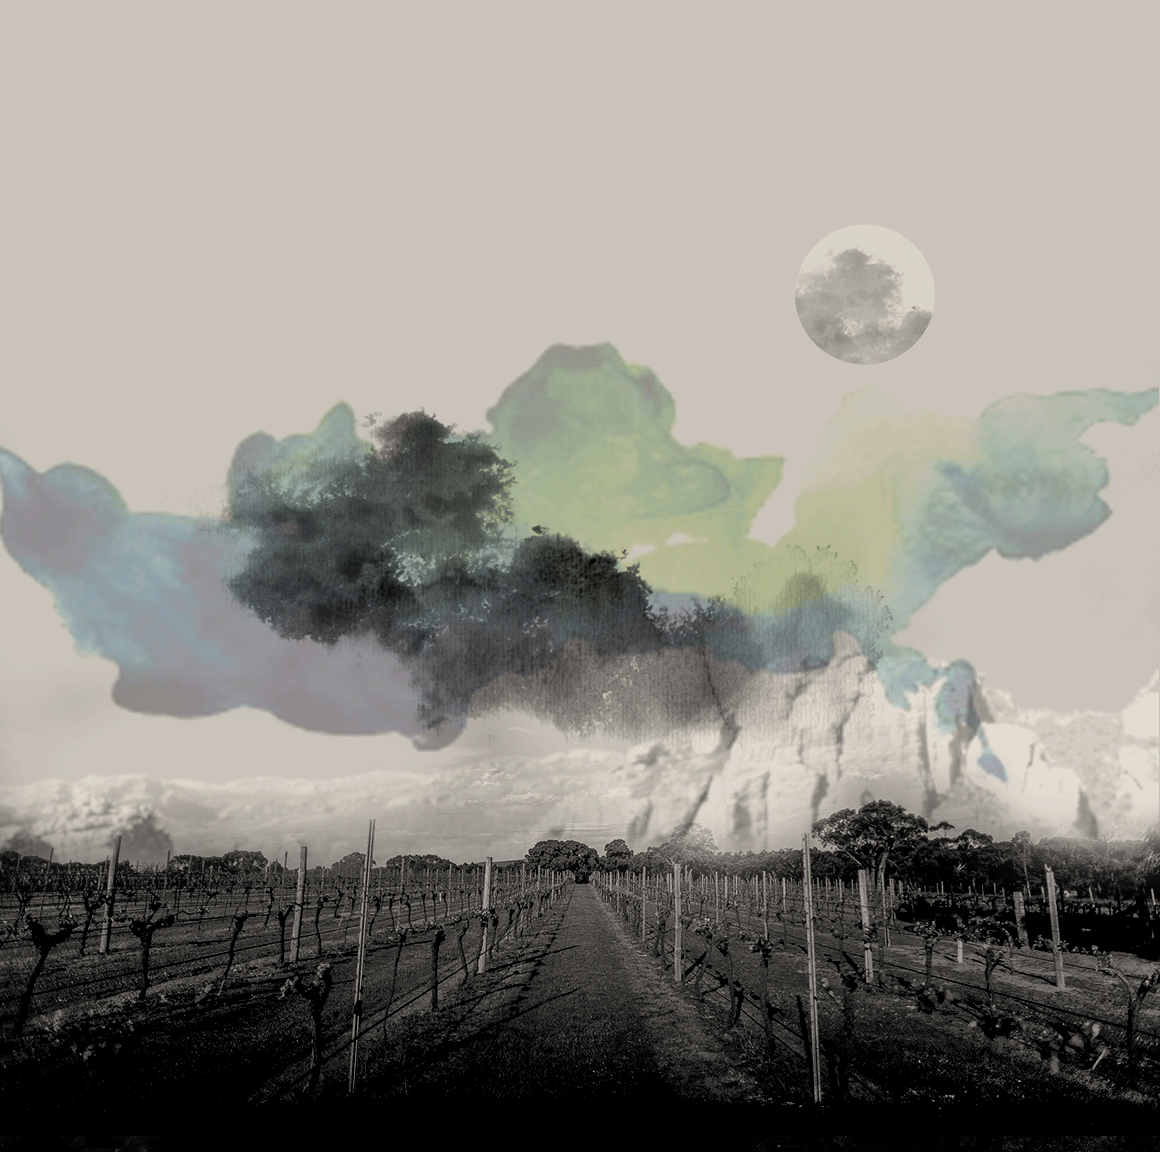
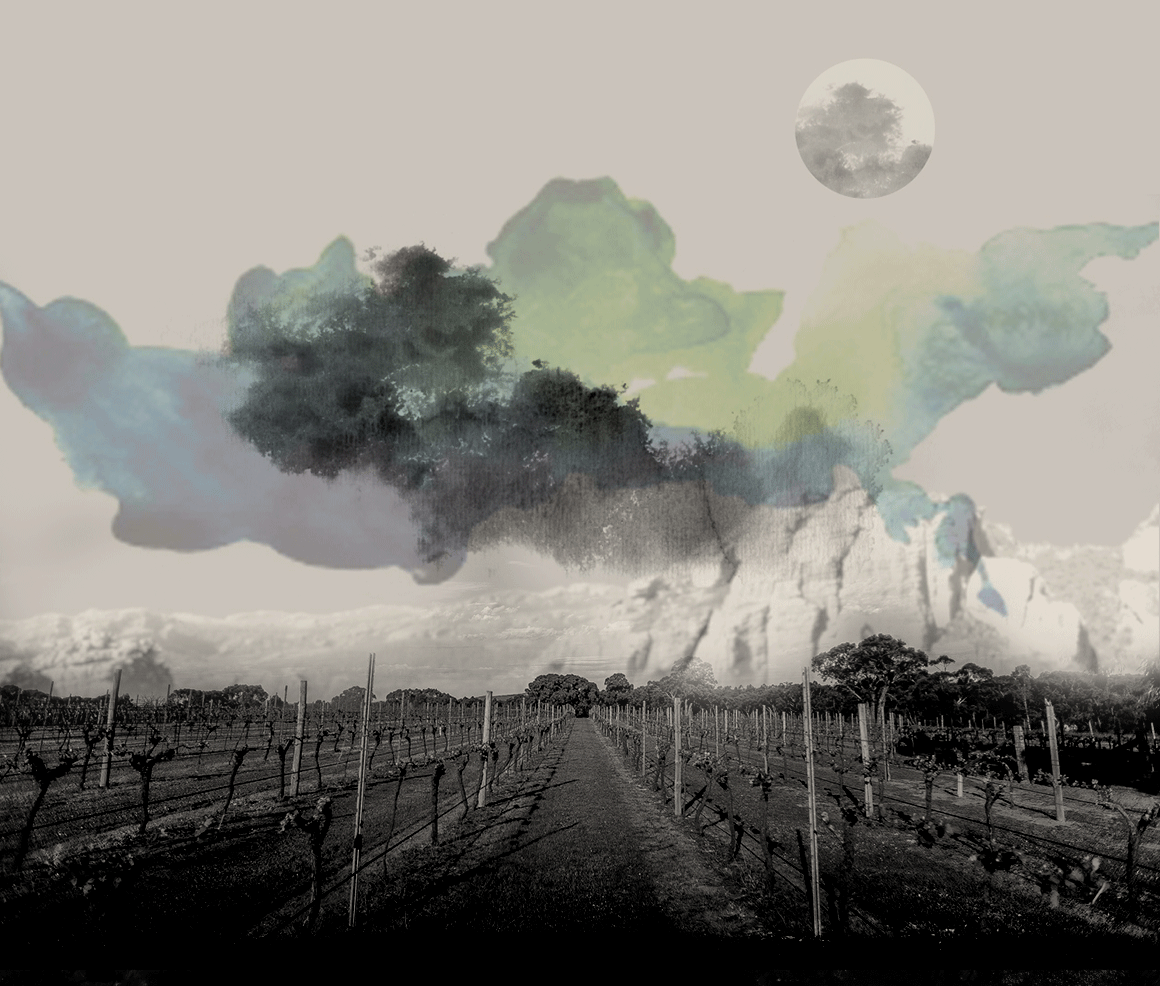
New Loop + Adding some BG

diff --git a/wp-content/themes/fallengiants/style.css b/wp-content/themes/fallengiants/style.css
@@ -13,18 +13,37 @@
 
 /* =Theme customization starts here
 -------------------------------------------------------------- */
-html {
+html,body {
 	background-color: #cac3bb;
 }
-.homepage {
+.bghomepage {
+	width: 100%;
 	position: static;
 	z-index: 4;
-	height: 1000px;
+	height: 82vw;
 	background-image: url(bg/home.png);
-	background-size: auto;
+	background-size: 100%;
+	background-repeat: no-repeat;
 	background-position: center top;
-	
+	border-bottom: solid black 1px;	
 }
+
+.bgourstory {
+background-image: url(bg/ourstory.png);
+height: 632px;
+margin-bottom: -350px;
+background-position: center top;
+}
+@media only screen and (min-width:1200px) {.bgourstory {background-size: 100%;}} /* min-width 641px, medium screens */
+
+.bgourstoryend {
+background-image: url(bg/ourstoryend.png);
+height: 632px;
+margin-top: -250px;
+background-position: center top;
+}
+@media only screen and (min-width:1200px) {.bgourstoryend {background-size: 100%;}} /* min-width 641px, medium screens */
+
 .entry-title {
 padding-top: 100px;
 }

diff --git a/wp-content/themes/fallengiants/one-page-layout.php b/wp-content/themes/fallengiants/one-page-layout.php
@@ -6,19 +6,20 @@ Template Name: One page layout
  */
 
 get_header(); ?>
-
+<div class="bghomepage">	
+</div>
+<div class="bgourstory">	
+</div>
 <div class="row">
 	<div id="primary" class="site-content small-12 medium-12 columns">
-		<div class="homepage">	
 		
-		
-		</div>
+		<!-- OUR-STORY -->
 		<div id="content" role="main">
 		
 		<?php 
 		global $post;
                 $args = array(
-                    'post_type' => 'page',
+                    'pagename' => 'our-story',
                     'order' => 'ASC'
                 );
                 $the_query = new WP_Query( $args );         
@@ -29,12 +30,42 @@ get_header(); ?>
             
             get_template_part($post->post_name); ?>
 
-            <?php endwhile; endif; ?>
+            <?php endwhile; endif; wp_reset_postdata(); ?>
             
 		</div>
 	</div>
 
 
 </div>
+<div class="bgourstoryend">	
+</div>
+<div class="row">
+	<div id="primary" class="site-content small-12 medium-12 columns">
+		
+		<!-- OUR-WINES -->
+		<div id="content" role="main">
+		
+		<?php 
+		global $post;
+                $args = array(
+                    'pagename' => 'our-wines',
+                    'order' => 'ASC'
+                );
+                $the_query = new WP_Query( $args );         
+            ?>
+            <?php if ( have_posts() ) : while ( $the_query->have_posts() ) : $the_query->the_post(); ?> 
+
+            <?php 
+            
+            get_template_part($post->post_name); ?>
+
+            <?php endwhile; endif; wp_reset_postdata(); ?>
+            
+		</div>
+	</div>
+
+
+</div>
+
 
 <?php get_footer(); ?>

diff --git a/wp-content/themes/fallengiants/our-story.php b/wp-content/themes/fallengiants/our-story.php
@@ -19,7 +19,7 @@ Template Name: Our story
 						<h1 class="entry-title"><?php the_title(); ?></h1>
 					</header>
 					<div class="row">
-						<div class="entry-content large-6 medium-6 small-12 medium-centered columns">
+						<div class="entry-content large-5 medium-5 small-12 medium-centered columns">
 							<?php the_content(); ?>
 						</div>
 					</div>
